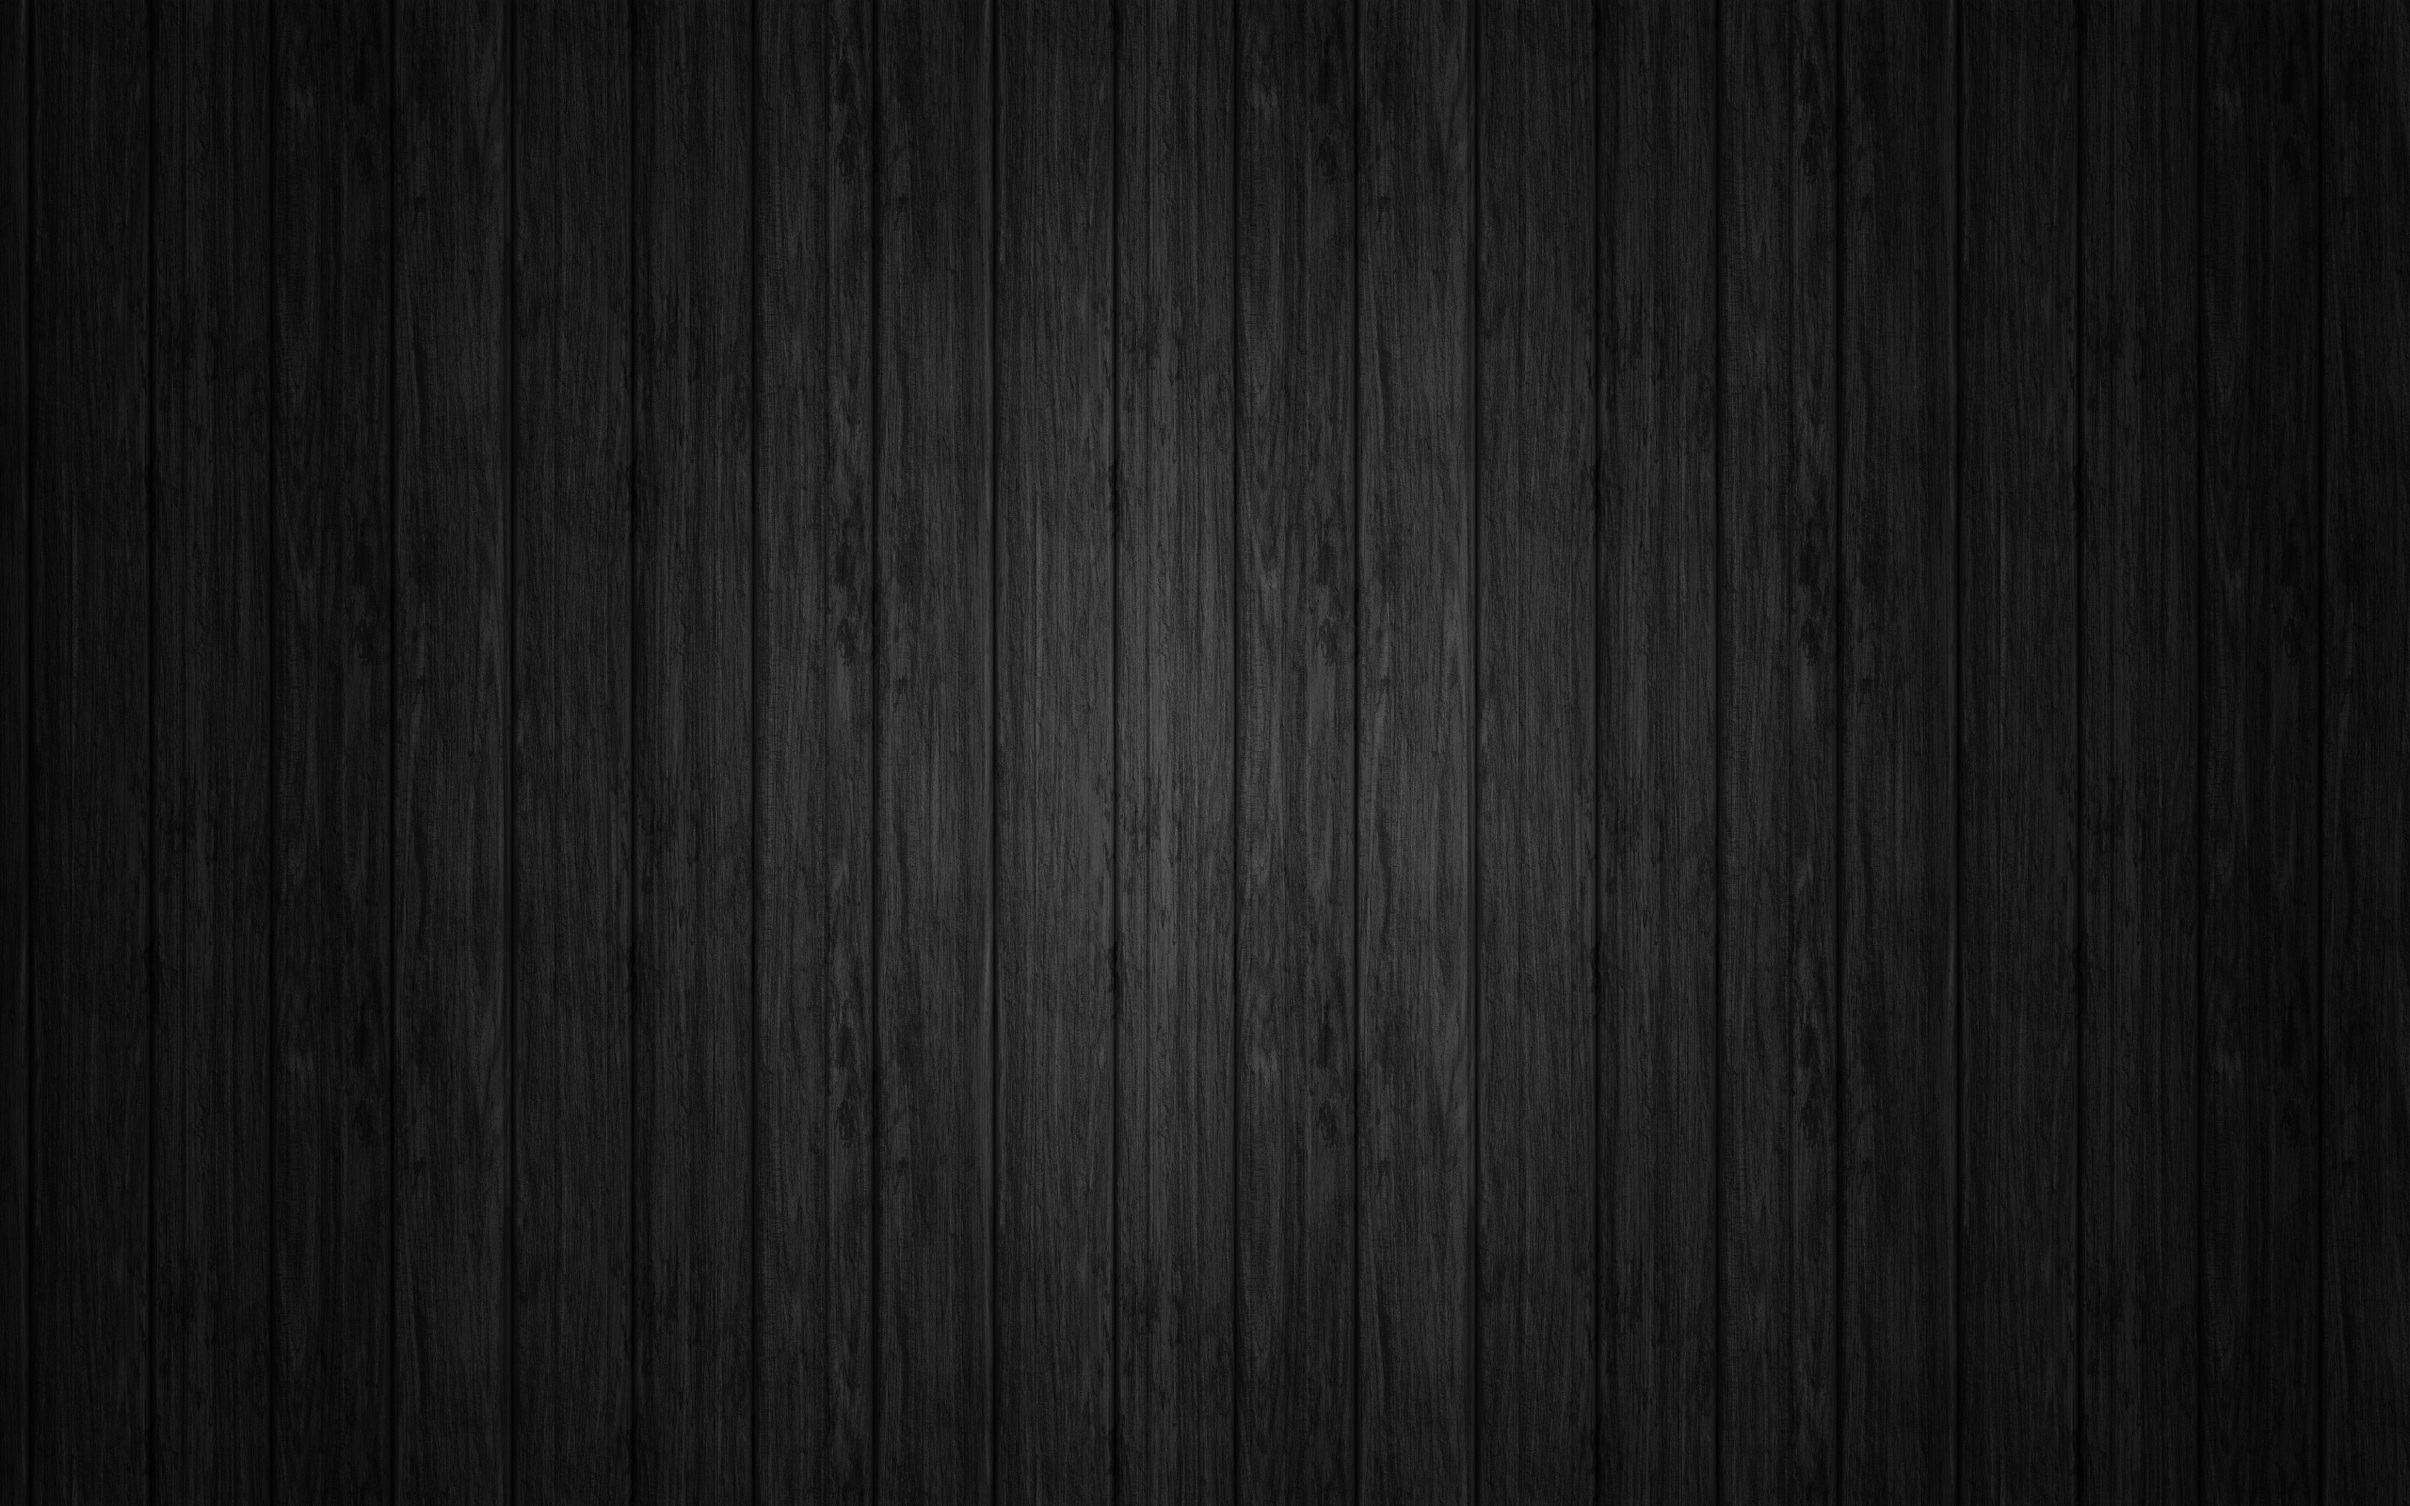
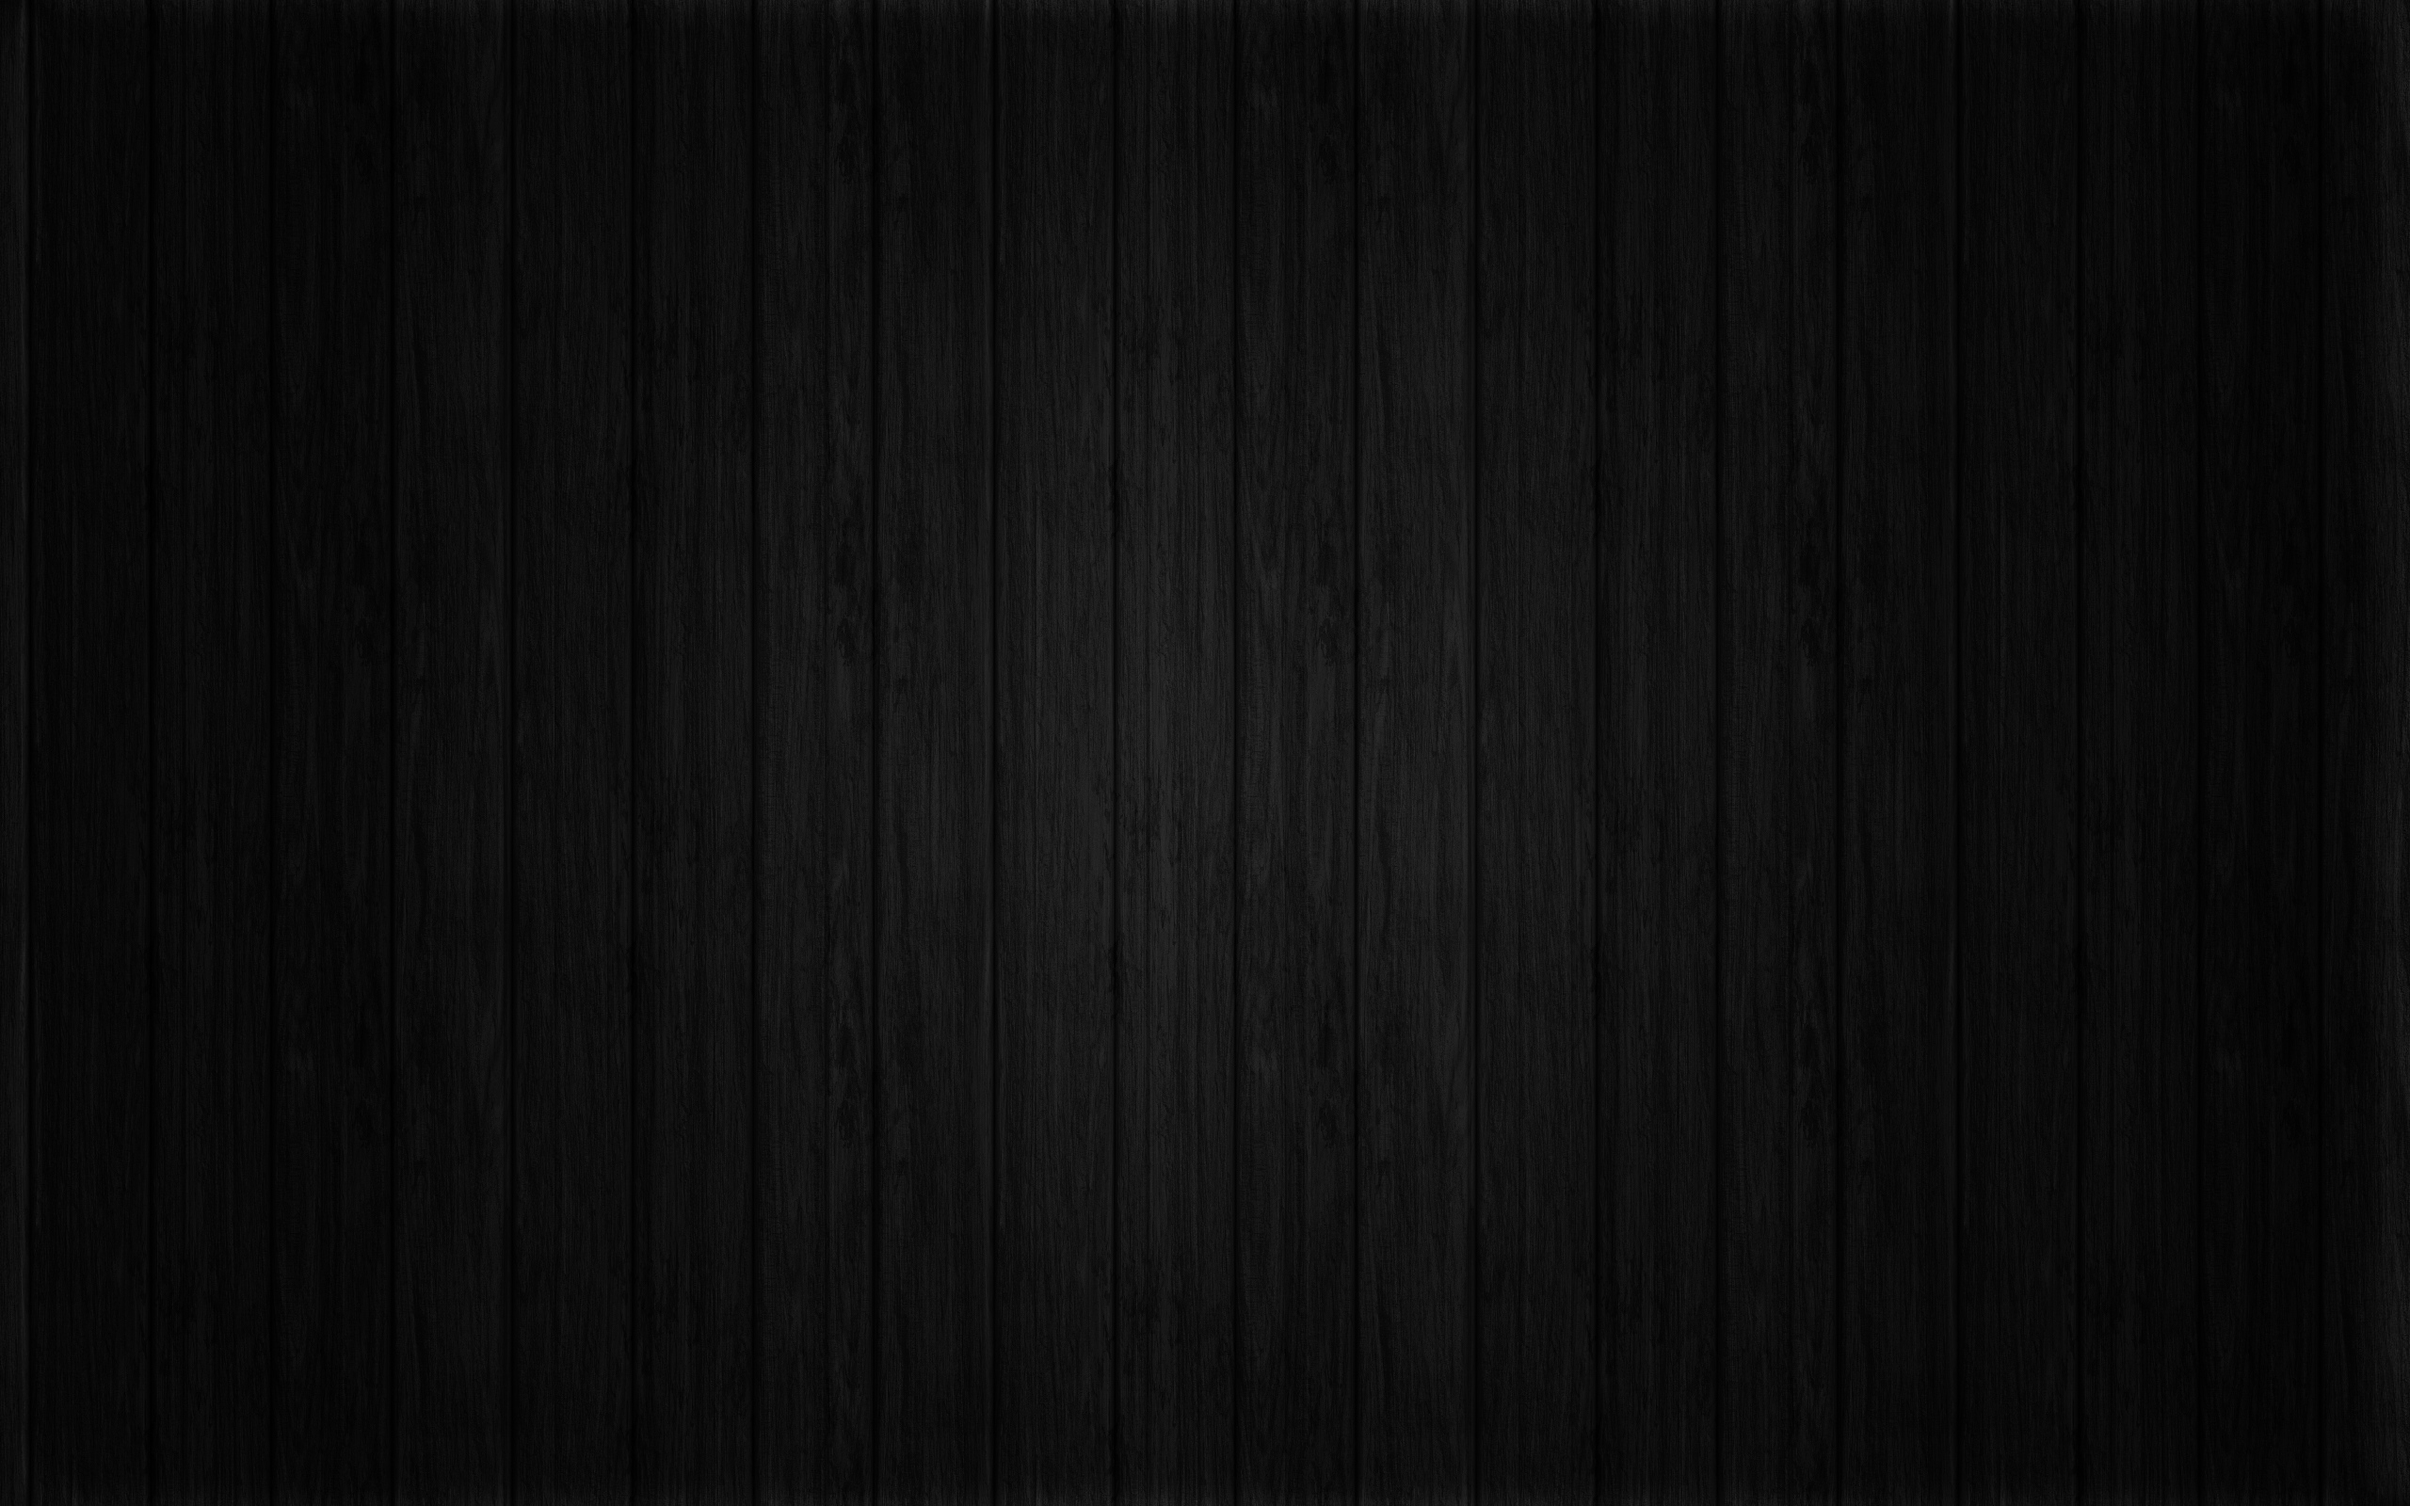
changed the background image of the body

Changed region(s): [[0.2812, 0.125, 0.6875, 0.8438], [0.7188, 0.4375, 0.75, 0.4688]]

diff --git a/assets/css/style.css b/assets/css/style.css
@@ -47,8 +47,9 @@ body {
     line-height: 150%;
     font: 200 1em/1.5em 'Raleway', Helvetica, sans-serif;
     font-size: 16px;
-    background: linear-gradient(to bottom, rgba(0, 0, 0, 0.8), rgba(0, 0, 0, .9)), url(../images/code-938776.jpg) no-repeat center center fixed;
+    background: url(../images/wood-1759566.jpg) no-repeat center center fixed;
     background-size: cover;
+    /* background-size: 100%; */
     -webkit-font-smoothing: antialiased;
     -moz-osx-font-smoothing: grayscale;
     position: absolute;
@@ -774,17 +775,17 @@ article#education {
 
 .education-section #edu-container img {
     align-self: center;
-    margin: 2em 8.63%;
-    width: 80%;
+    margin: 2em 15%;
+    width: 70%;
 }
 
 
 /*=========skills section layout ===========*/
 
 .skills-section {
-    background: url("../images/computer-1209641 2.jpg") 100% 0 no-repeat fixed;
+    background: url("../images/neo-urban-1734495.jpg") 100% 0 no-repeat fixed;
     background-size: cover;
-    padding-top: 100px;
+    padding-top: 70px;
 }
 
 #skills #skills-container {
@@ -941,7 +942,7 @@ article#experience {
 
 .experience-section {
     /* background: url("../images/computer-1833058_1280.png") 100% 0 no-repeat fixed; */
-    background-size: cover;
+    /* background-size: cover; */
     padding-top: 100px;
     min-height: 910px;
 }
@@ -1104,9 +1105,9 @@ article#experience {
 }
 
 .portfolio-section {
-    background: url(../images/monitor-933392_1920.jpg) 100% 0 repeat fixed;
+    background: url(../images/neo-urban-1734495.jpg) 100% 0 repeat fixed;
     background-size: cover;
-    padding-top: 100px;
+    padding-top: 75px;
 }
 
 .portfolio-section #portfolio-container {
@@ -1435,7 +1436,7 @@ footer p {
     .education-section {
         height: auto;
         padding-top: 30px;
-        min-height: 500px;
+        min-height: 750px;
     }
     article#education {
         height: auto;
@@ -1465,6 +1466,7 @@ footer p {
     .skills-section {
         height: auto;
         padding-top: 30px;
+        min-height: 750px;
     }
     article#skills {
         height: auto;
@@ -1489,6 +1491,7 @@ footer p {
     .experience-section {
         height: auto;
         padding-top: 30px;
+        min-height: 870px;
     }
     article#experience {
         height: auto;
@@ -1556,6 +1559,7 @@ footer p {
     .portfolio-section {
         height: auto;
         padding-top: 30px;
+        min-height: 700px;
     }
     #portfolio #portfolio-container {
         flex-direction: column;
